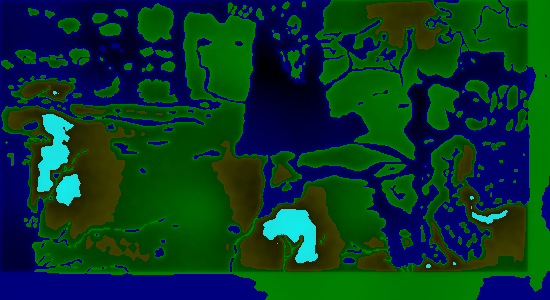
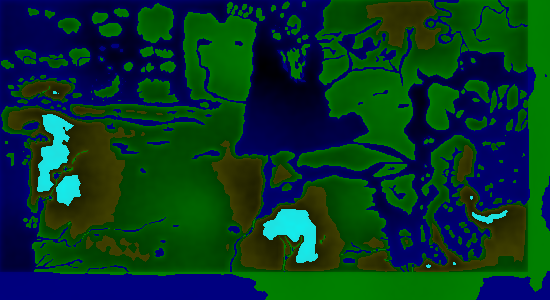
1-ALPHA.2

diff --git a/lib/src/main/java/procedural_generation/noise/nodes/ImageMaskNode.java b/lib/src/main/java/procedural_generation/noise/nodes/ImageMaskNode.java
@@ -123,8 +123,8 @@ public class ImageMaskNode implements Node {
         double value = getSimpleValue(x, y);
         double divideBy = 1;
         for (int i = 1; i <= neighbors; i++) {
-            value += getNeighborsValue(i, x, y) / i;
-            divideBy += (1.0 / i);
+            value += getNeighborsValue(i, x, y) / (i+2);
+            divideBy += (1.0 / (i+2));
         }
         return value / divideBy;
     }

diff --git a/lib/src/test/java/procedural_generation/MaskTest2.java b/lib/src/test/java/procedural_generation/MaskTest2.java
@@ -64,7 +64,7 @@ public class MaskTest2 {
 
 
         // generate a 2d array of noise
-        double[][] noise = new double[1000][1000];
+        double[][] noise = new double[550][300];
         for (int x = 0; x < noise.length; x++) {
             for (int y = 0; y < noise[x].length; y++) {
                 noise[x][y] = complexNoise.getValue(50 + x * 0.1, 100 + y * 0.1);
